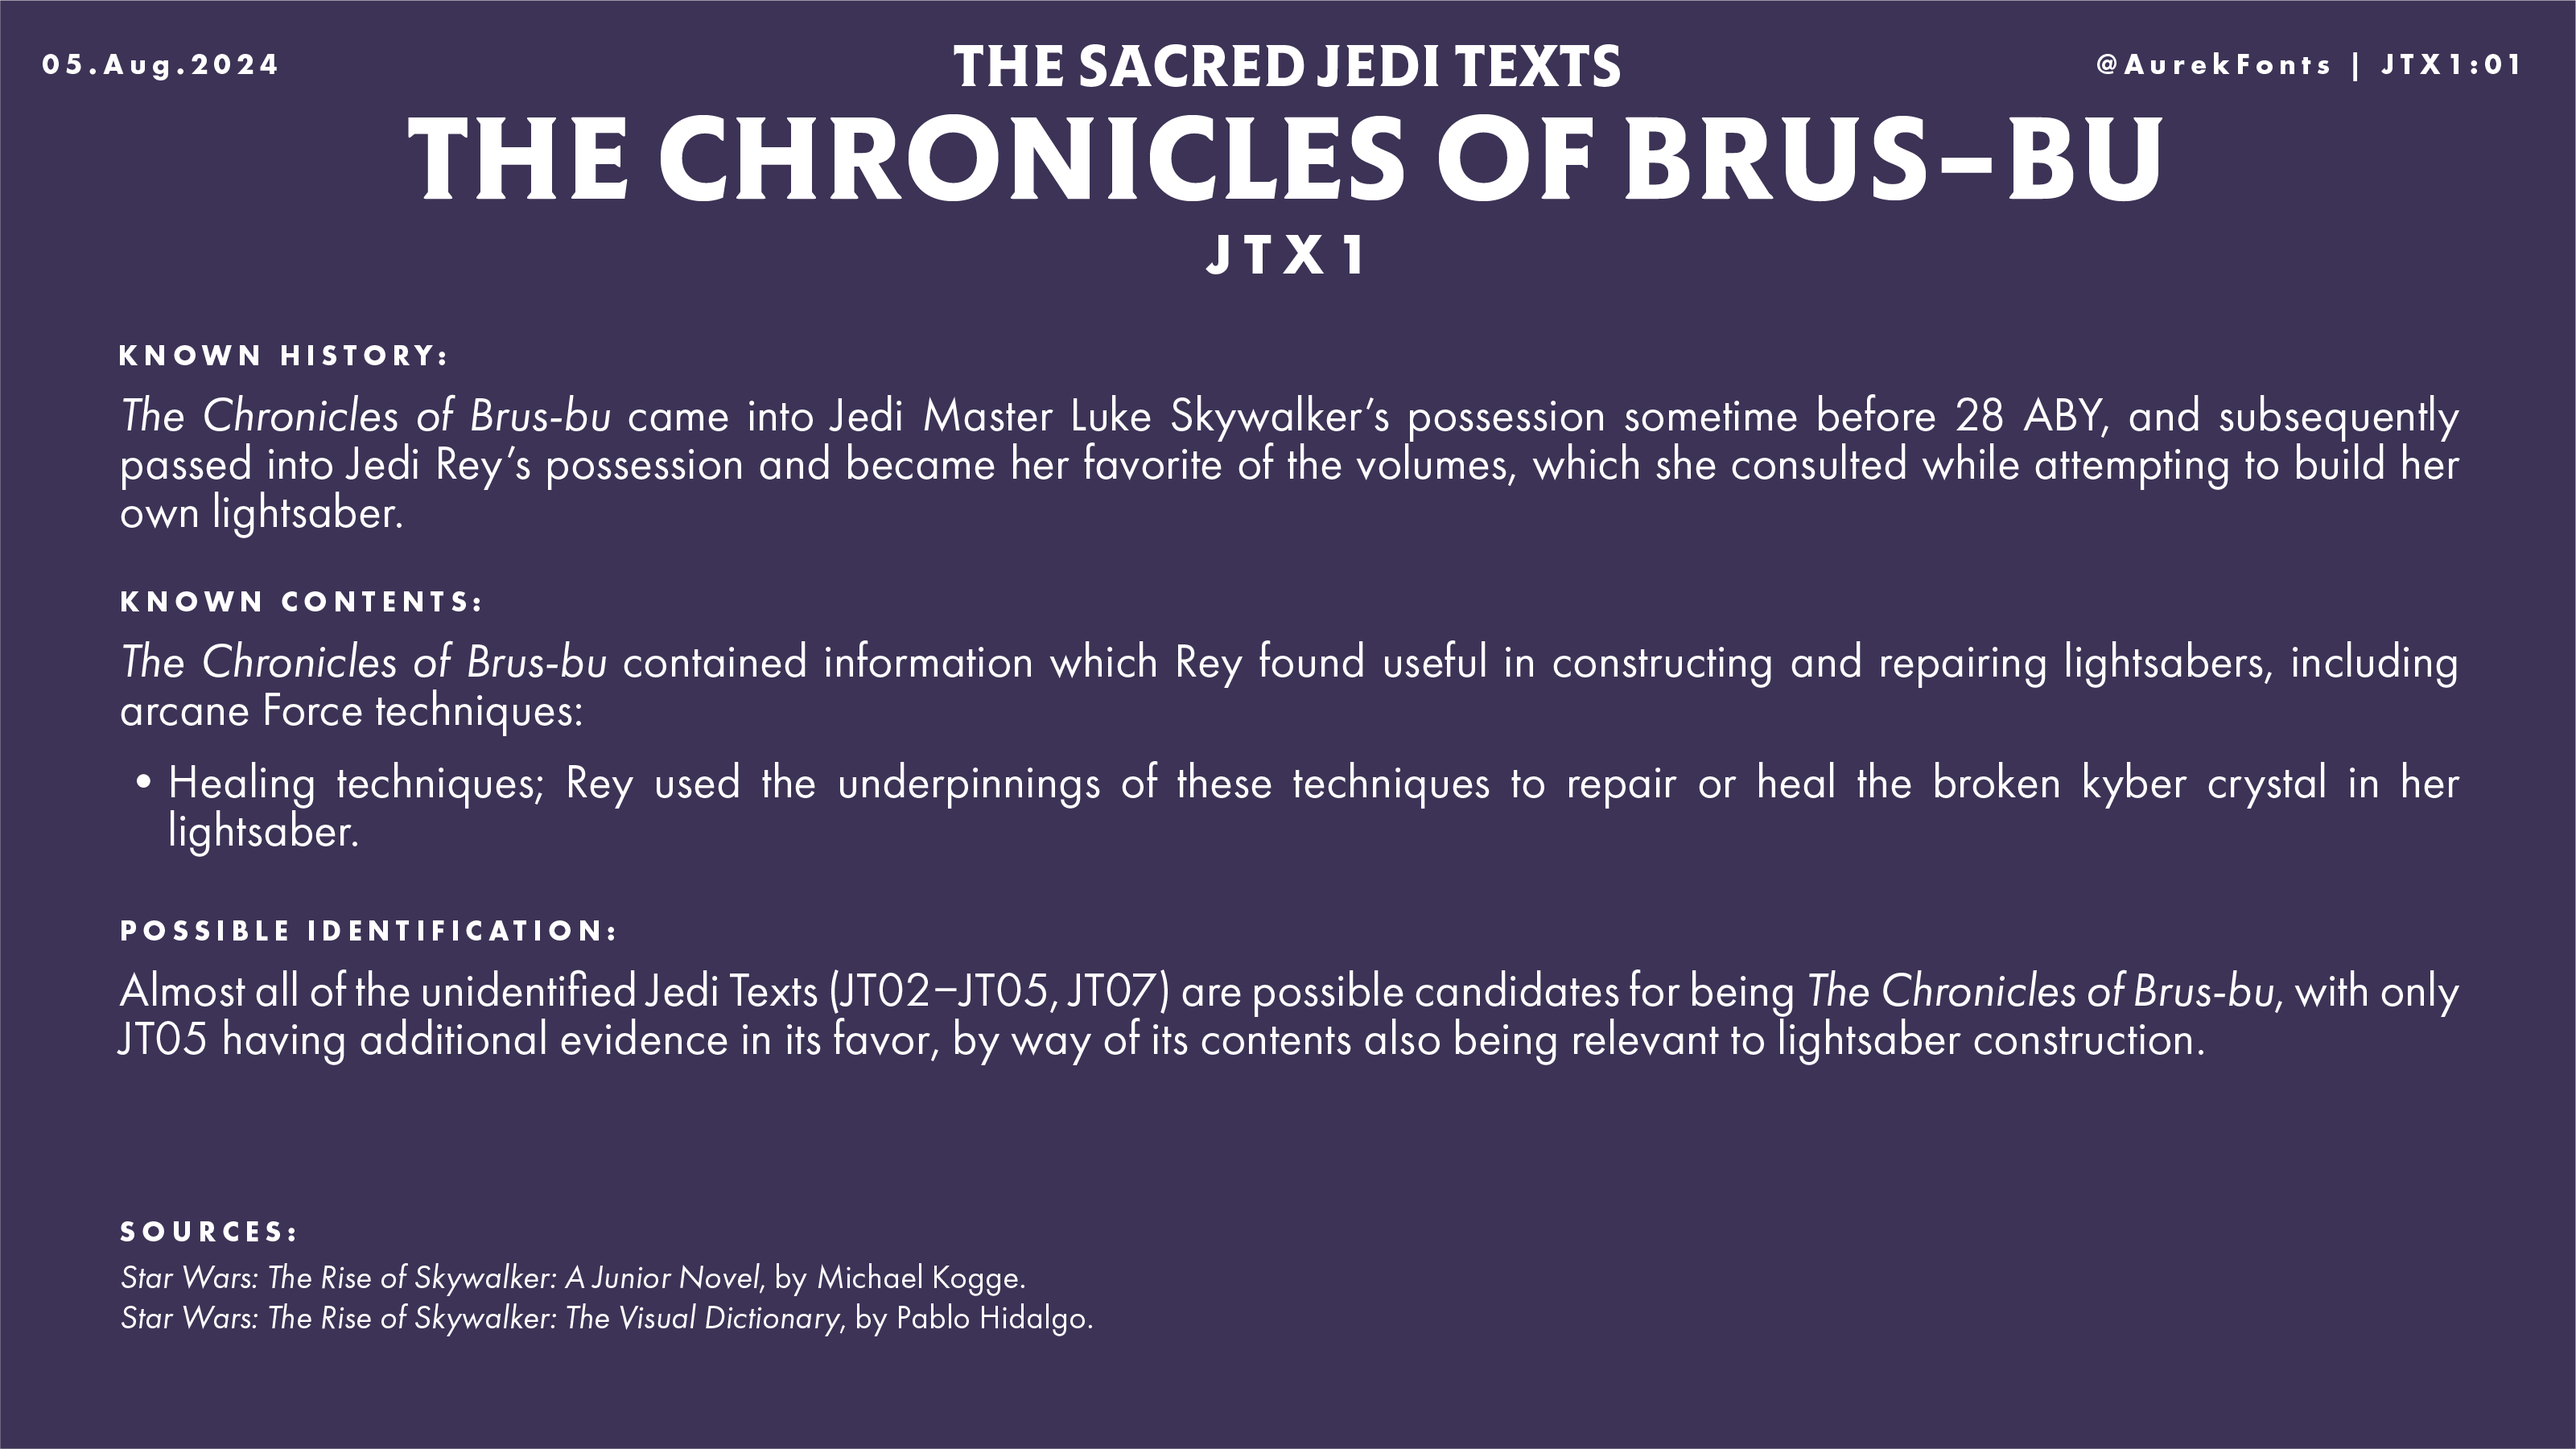
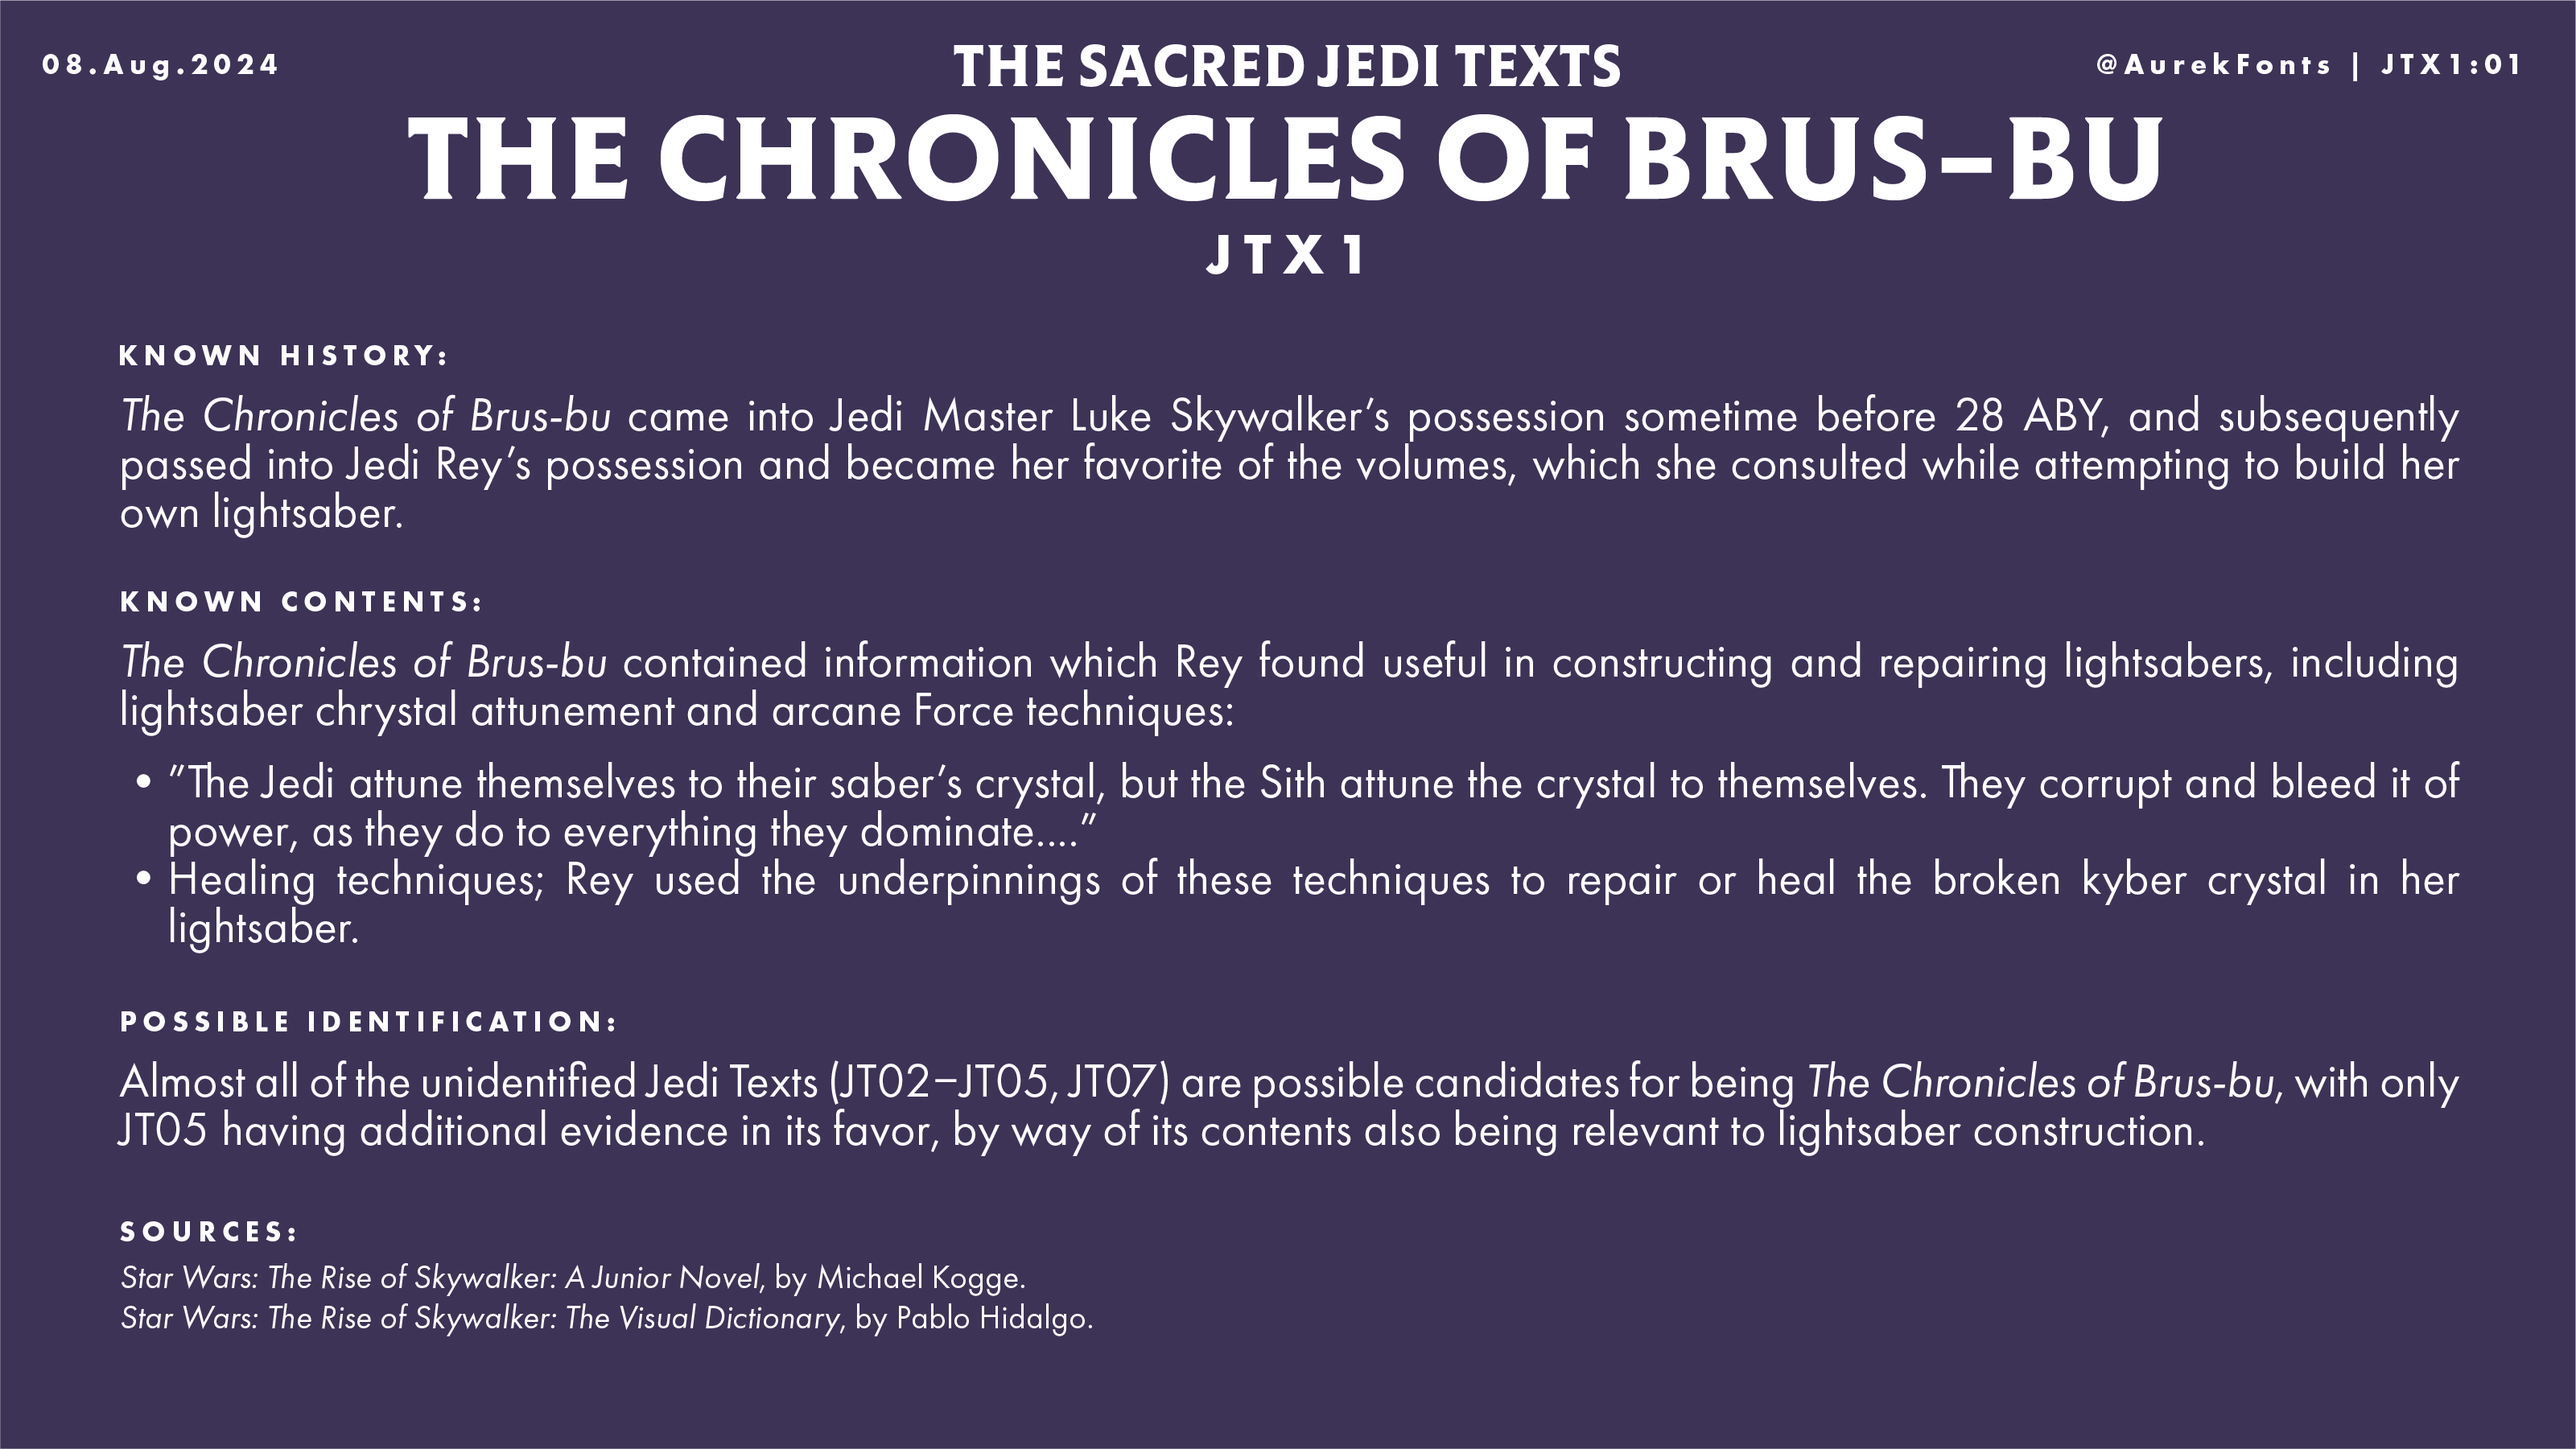
JTX1 and 2

Changed region(s): [[0.0312, 0.5286, 0.9684, 0.8084], [0.0312, 0.4664, 0.4686, 0.4975]]

diff --git a/guide-jeditexts.html b/guide-jeditexts.html
@@ -100,16 +100,16 @@
         <li><a href="#JT07">JT07: [Raised Star Map Cover]</a></li>
         <li><a href="#JT08">JT08: The Rammahgon</a></li>
       </ul>
-      <!-- <h4>Jedi Texts without Positive ID:</h4>
+      <h4>Jedi Texts without Positive ID:</h4>
       <ul>
-        <li>JTX1: The Chronicles of Brus-bu</a></li>
-        <li>JTX2: Poetics of a Jedi</a></li>
-      </ul> -->
+        <li><a href="#JTX1">JTX1: The Chronicles of Brus-bu</a></li>
+        <li><a href="#JTX2">JTX2: Poetics of a Jedi</a></li>
+      </ul>
       <!-- <h4>Appendices</h4>
       <ul>
-        <li>Appendix A</a></li>
-        <li>Appendix B</a></li>
-        <li>Appendix C</a></li>
+        <li><a href="#APDX-01">Appendix A</a></li>
+        <li><a href="#APDX-09">Appendix B</a></li>
+        <li><a href="#APDX-10">Appendix C</a></li>
       </ul> -->
       <br>
       <h2 id="JT01">JT01: Aionomicum I</h2>
@@ -697,6 +697,46 @@
           Pages 1 and 7: Star Wars: The Rise of Skywalker: The Visual Dictionary, by Pablo Hidalgo. (Altered.)
           Pages 3, 4, and 5: Star Wars: The Rise of Skywalker (2019 film).
           Page 8: Star Wars: Visionaries (2005 graphic novel)."
+        >
+      </a>
+      <br>
+      <h3>Jedi Texts without Positive ID</h3>
+      <h2 id="JTX1">JTX1</h2>
+      <a href="./src/GuideToSacredJediTexts/JTX1/JTX1-01.png">
+        <img
+          id="JTX1-01"
+          src="./src/GuideToSacredJediTexts/JTX1/JTX1-01.png"
+          alt="The Sacred Jedi Texts. JTX1: The Chronicles of Brus-bu, page 1. Known History: The Chronicles of Brus-bu came into Jedi Master Luke Skywalker's possession sometime before 28 ABY, and subsequently passed into Jedi Rey's possession and became her favorite of the volumes, which she consulted while attempting to build her own lightsaber. Known Contents: The Chronicles of Brus-bu contained information which Rey found useful in constructing and repairing lightsabers, including lightsaber chrystal attunement and arcane Force techniques: 'The Jedi attune themselves to their saber's crystal, but the Sith attune the crystal to themselves. They corrupt and bleed it of power, as they do to everything they dominate....' Healing techniques; Rey used the underpinnings of these techniques to repair or heal the broken kyber crystal in her lightsaber. Possible Identification: Almost all of the unidentified Jedi Texts (JT02, 03, 04, 05, and 07) are possible candidates for being The Chronicles of Brus-bu, with only JT05 having additional evidence in its favor, by way of its contents also being relevant to lightsaber construction. Sources: Star Wars: The Rise of Skywalker: A Junior Novel, by Michael Kogge. Star Wars: The Rise of Skywalker: The Visual Dictionary, by Pablo Hidalgo."
+          title="The Sacred Jedi Texts. JTX1: The Chronicles of Brus-bu, page 1.
+          Known History:
+          The Chronicles of Brus-bu came into Jedi Master Luke Skywalker's possession sometime before 28 ABY, and subsequently passed into Jedi Rey's possession and became her favorite of the volumes, which she consulted while attempting to build her own lightsaber.
+          Known Contents:
+          The Chronicles of Brus-bu contained information which Rey found useful in constructing and repairing lightsabers, including lightsaber chrystal attunement and arcane Force techniques:
+          'The Jedi attune themselves to their saber's crystal, but the Sith attune the crystal to themselves. They corrupt and bleed it of power, as they do to everything they dominate....'
+          Healing techniques; Rey used the underpinnings of these techniques to repair or heal the broken kyber crystal in her lightsaber.
+          Possible Identification:
+          Almost all of the unidentified Jedi Texts (JT02, 03, 04, 05, and 07) are possible candidates for being The Chronicles of Brus-bu, with only JT05 having additional evidence in its favor, by way of its contents also being relevant to lightsaber construction.
+          Sources:
+          Star Wars: The Rise of Skywalker: A Junior Novel, by Michael Kogge.
+          Star Wars: The Rise of Skywalker: The Visual Dictionary, by Pablo Hidalgo."
+        >
+      </a>
+      <br>
+      <h2 id="JTX2">JTX2</h2>
+      <a href="./src/GuideToSacredJediTexts/JTX2/JTX2-01.png">
+        <img
+          id="JTX2-01"
+          src="./src/GuideToSacredJediTexts/JTX2/JTX2-01.png"
+          alt="The Sacred Jedi Texts. JTX2: Poetics of a Jedi, page 1. Known History: Poetics of a Jedi came into Jedi Master Luke Skywalker's possession sometime before 28 ABY, and subsequently passed into Jedi Rey's possession. Known Contents: Poetics of a Jedi contained the following passage written by Jedi Master Lyr Farseeker: 'The mind of a Jedi can move mountains. But the heart of a Jedi can move souls. For there is more to the Jedi than the Force. There is kindness, there is compassion, there is light, and there is love.' Possible Identification: Almost all of the unidentified Jedi Texts (JT02, 03, 04, 05, and 07) are possible candidates for being Poetics of a Jedi, as, to varying degrees, any of them could match the description of being “a thin folio.” Sources: Star Wars: The Rise of Skywalker: A Junior Novel, by Michael Kogge."
+          title="The Sacred Jedi Texts. JTX2: Poetics of a Jedi, page 1.
+          Known History:
+          Poetics of a Jedi came into Jedi Master Luke Skywalker's possession sometime before 28 ABY, and subsequently passed into Jedi Rey's possession.
+          Known Contents:
+          Poetics of a Jedi contained the following passage written by Jedi Master Lyr Farseeker: 'The mind of a Jedi can move mountains. But the heart of a Jedi can move souls. For there is more to the Jedi than the Force. There is kindness, there is compassion, there is light, and there is love.'
+          Possible Identification:
+          Almost all of the unidentified Jedi Texts (JT02, 03, 04, 05, and 07) are possible candidates for being Poetics of a Jedi, as, to varying degrees, any of them could match the description of being “a thin folio.”
+          Sources:
+          Star Wars: The Rise of Skywalker: A Junior Novel, by Michael Kogge."
         >
       </a>
       <br>
